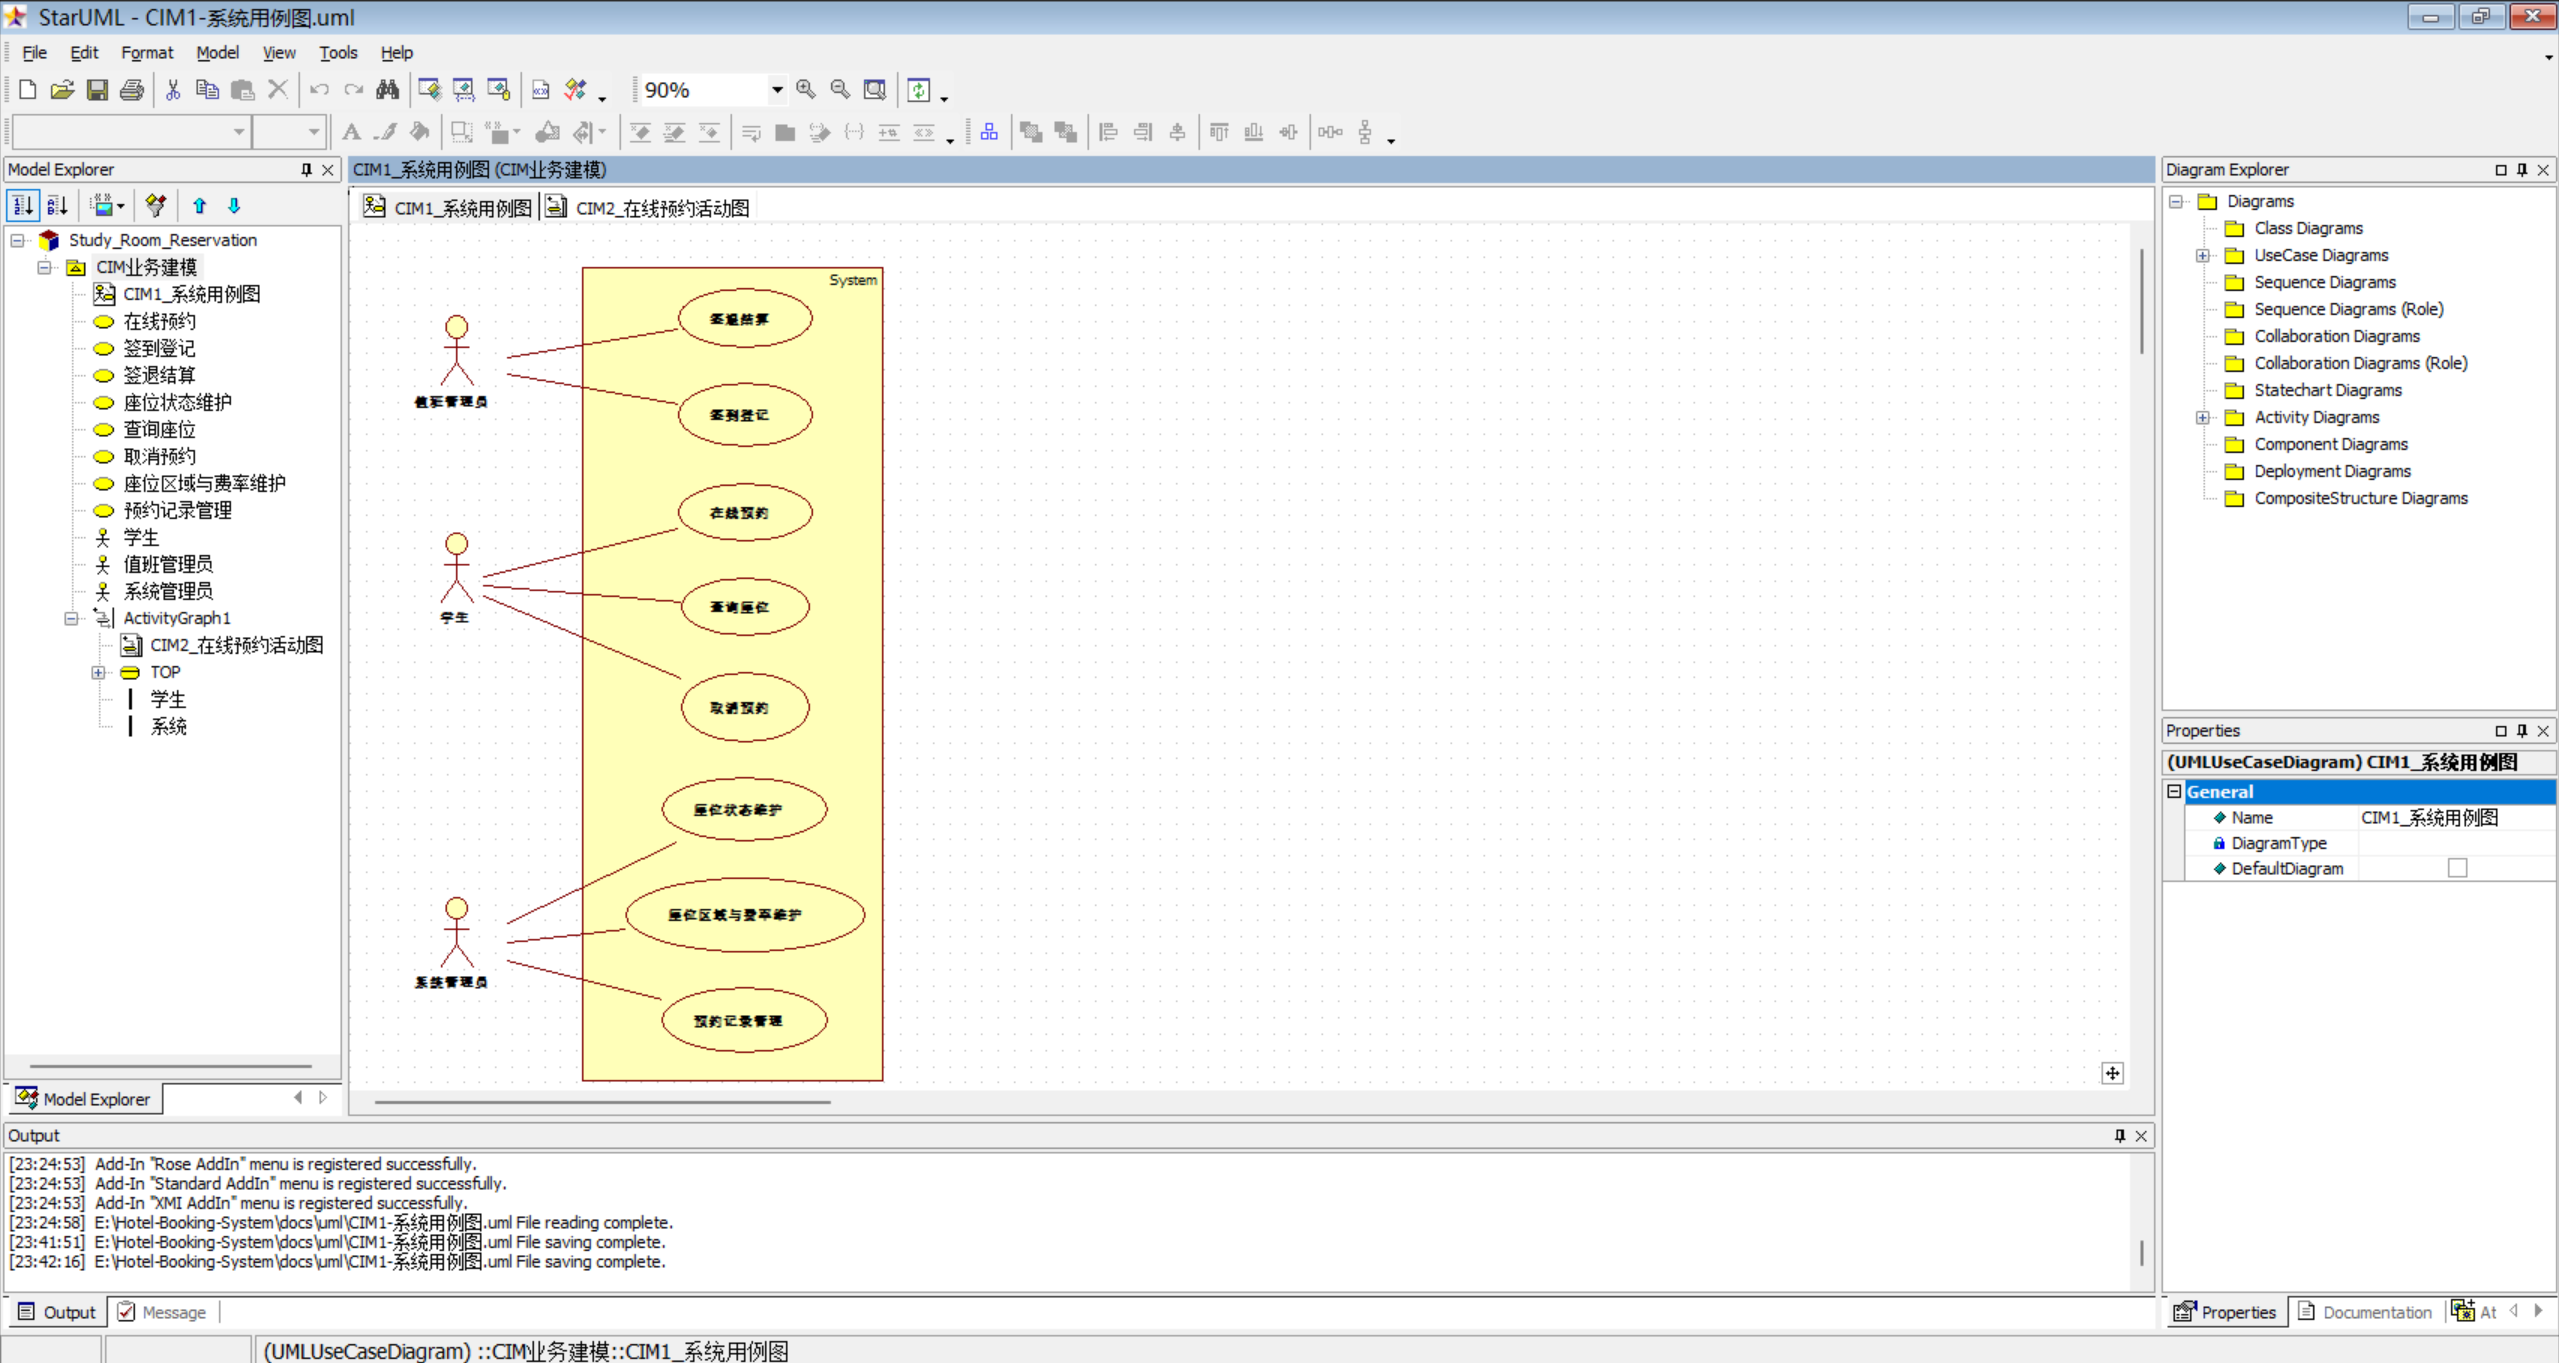
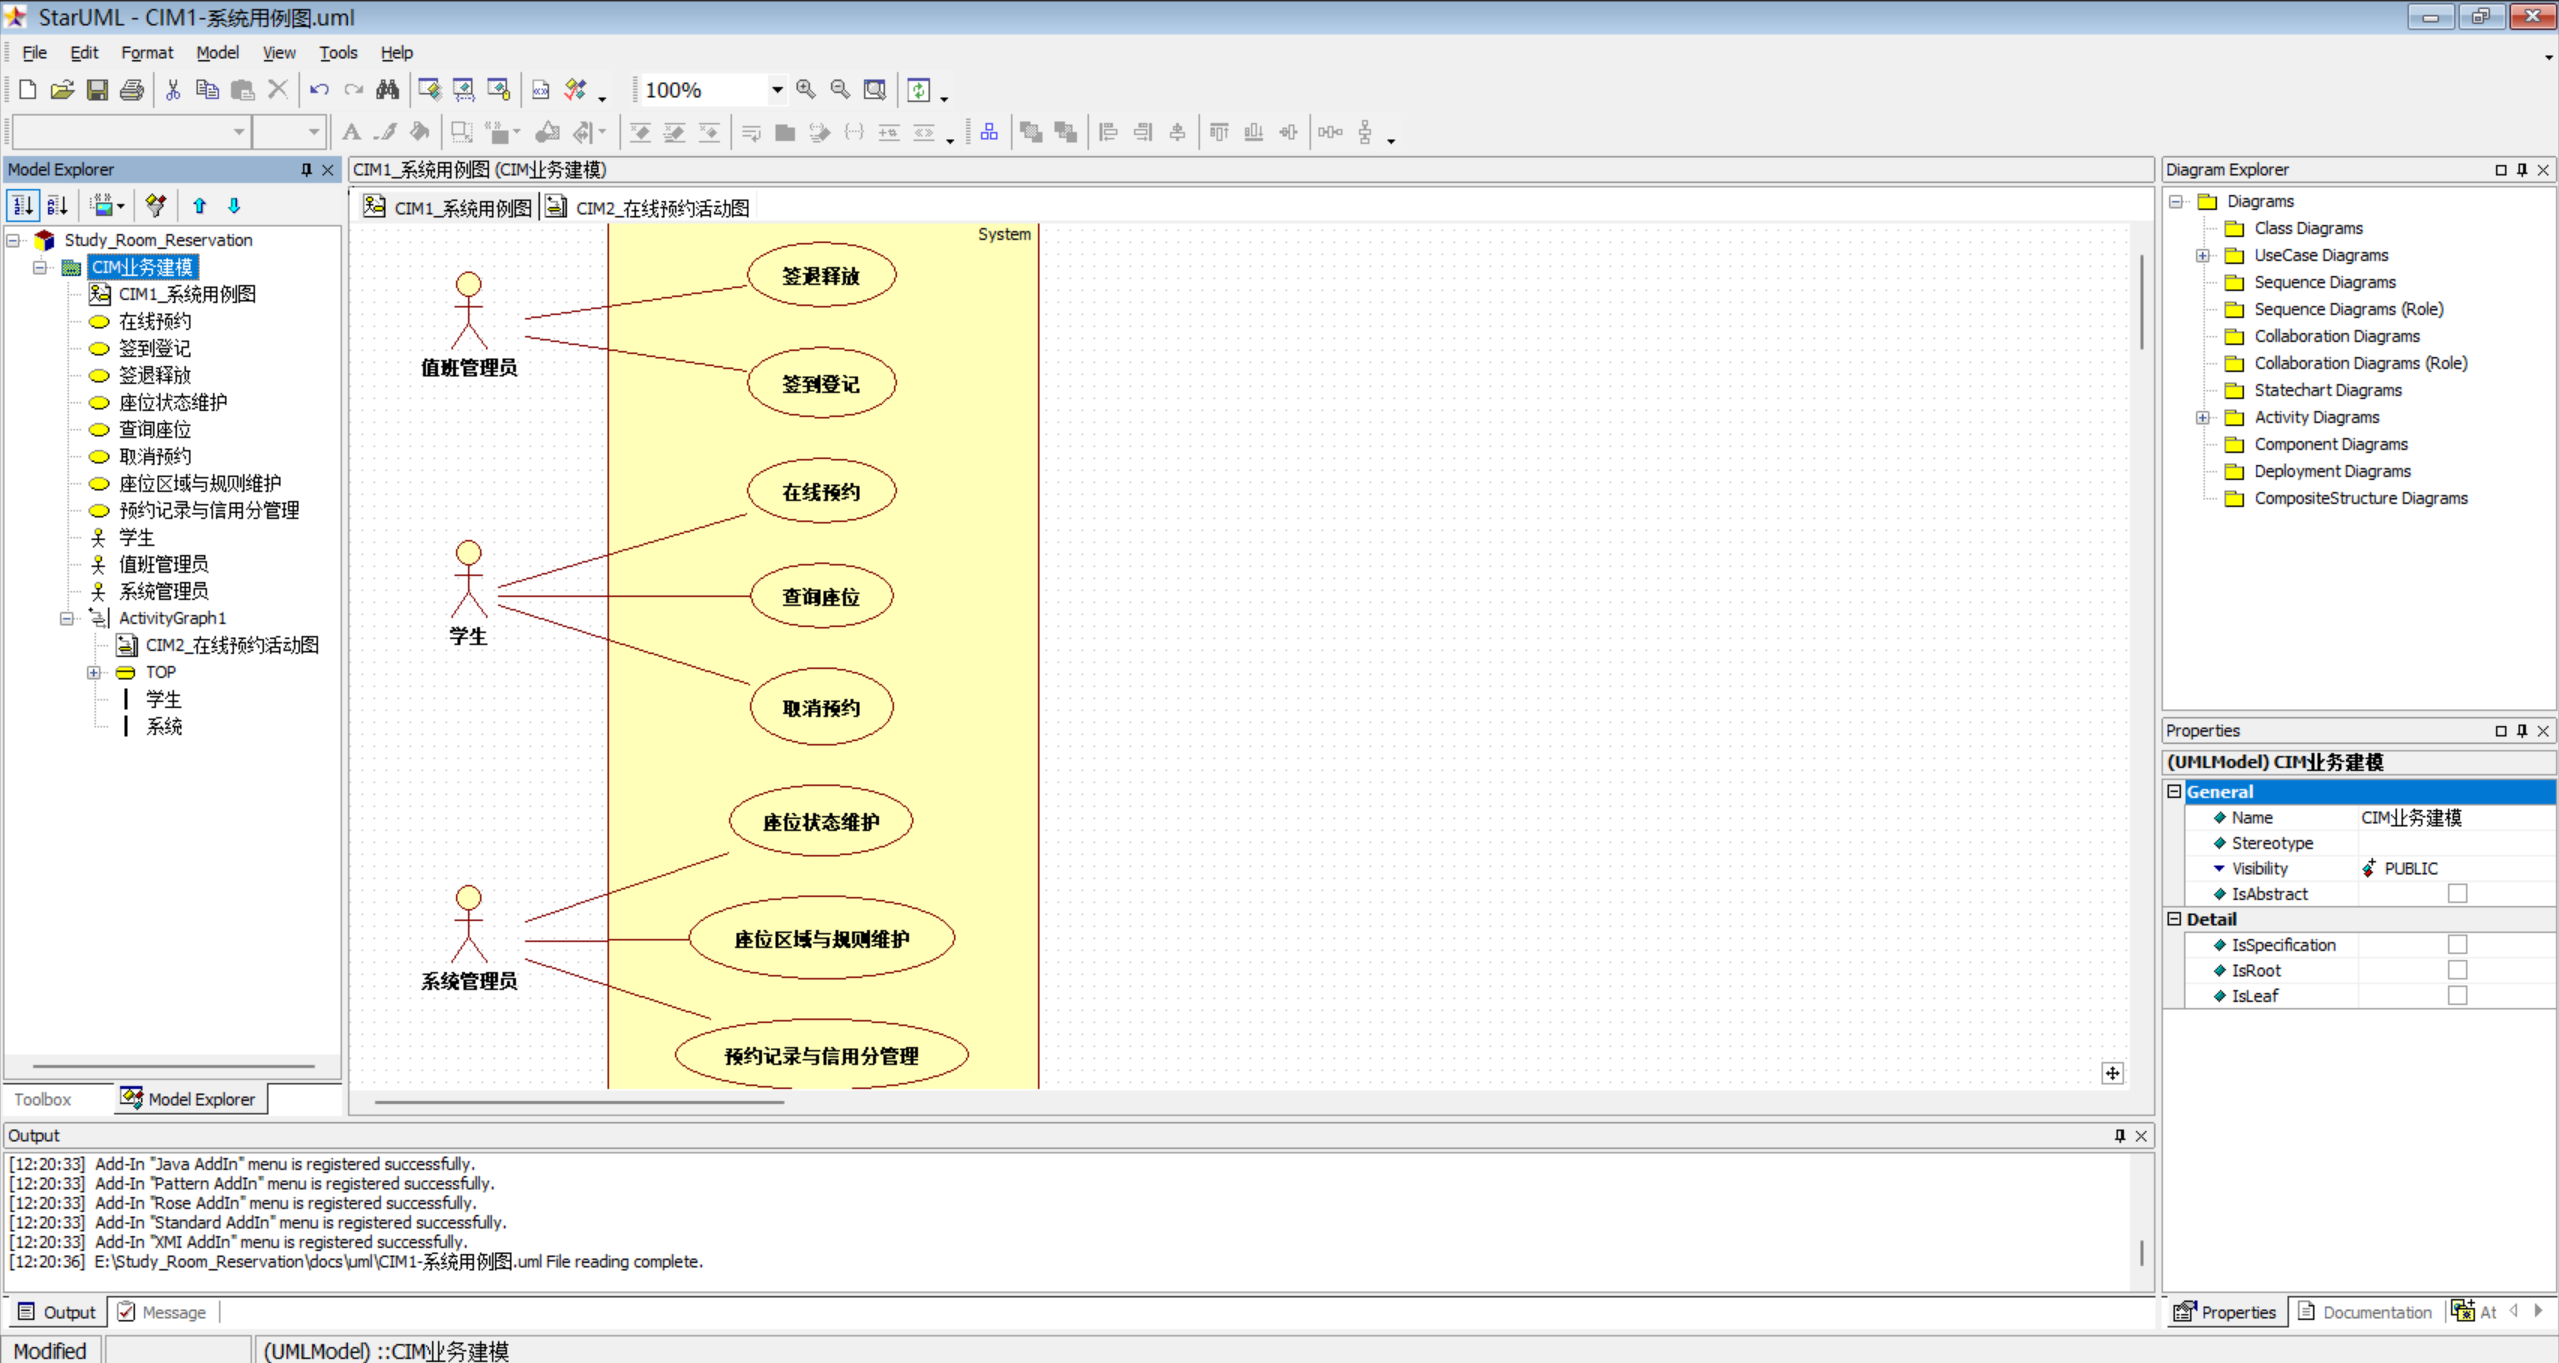
A-2: CIM图按信用分模式更新+对接文档残留术语修正
- CIM1/CIM2导出图更新（信用分判断分支、用例名修改）
- 对接文档: 签退结算->签退释放, include关系描述修正

diff --git a/docs/contract/对接-A2到B1.md b/docs/contract/对接-A2到B1.md
@@ -45,7 +45,7 @@
    - 判定超时并记录信用分扣减
 3. **画 4 类关系**（缺一不可）：
    - 关联：3 个参与者分别连各自的 8 个主用例；
-   - 包含 `<<include>>`：在线预约 -> 校验座位与时段可用性；签到登记 -> 核验预约记录；签退结算 -> 计算使用费用并生成签到记录；
+   - 包含 `<<include>>`：在线预约 -> 校验座位与时段可用性；签到登记 -> 核验预约记录；签退释放 -> 判定超时并记录信用分扣减；
    - 扩展 `<<extend>>`：取消预约 -> 在线预约（扩展点写"预约成功后、签到前可取消"）；
    - 泛化：学生、值班管理员、系统管理员 -> 用户（抽象参与者，空心三角箭头指向"用户"）。
 4. **写 8 条用例叙述**，每条按指导书模板：
@@ -72,7 +72,7 @@
 |---|---|
 | 参与者名称 | 学生 / 值班管理员 / 系统管理员（不要写"消费者""前台员工"） |
 | 用例编号 | Study-C01 ~ Study-M03，与实验1 一致 |
-| 用例命名 | 动词 + 名词，如"查询座位""签退结算" |
+| 用例命名 | 动词 + 名词，如"查询座位""签退释放" |
 | 图片文件名 | 统一用下划线：`实验2_系统用例图.jpg` |
 | 类名/方法名 | 见 `docs/contract/接口契约.md`，如 `Seat.reserve(...)` 已锁定 |
 | 分支 | B 在 `dev-B`，提交信息 `B-1: 完成实验2系统用例图` |
